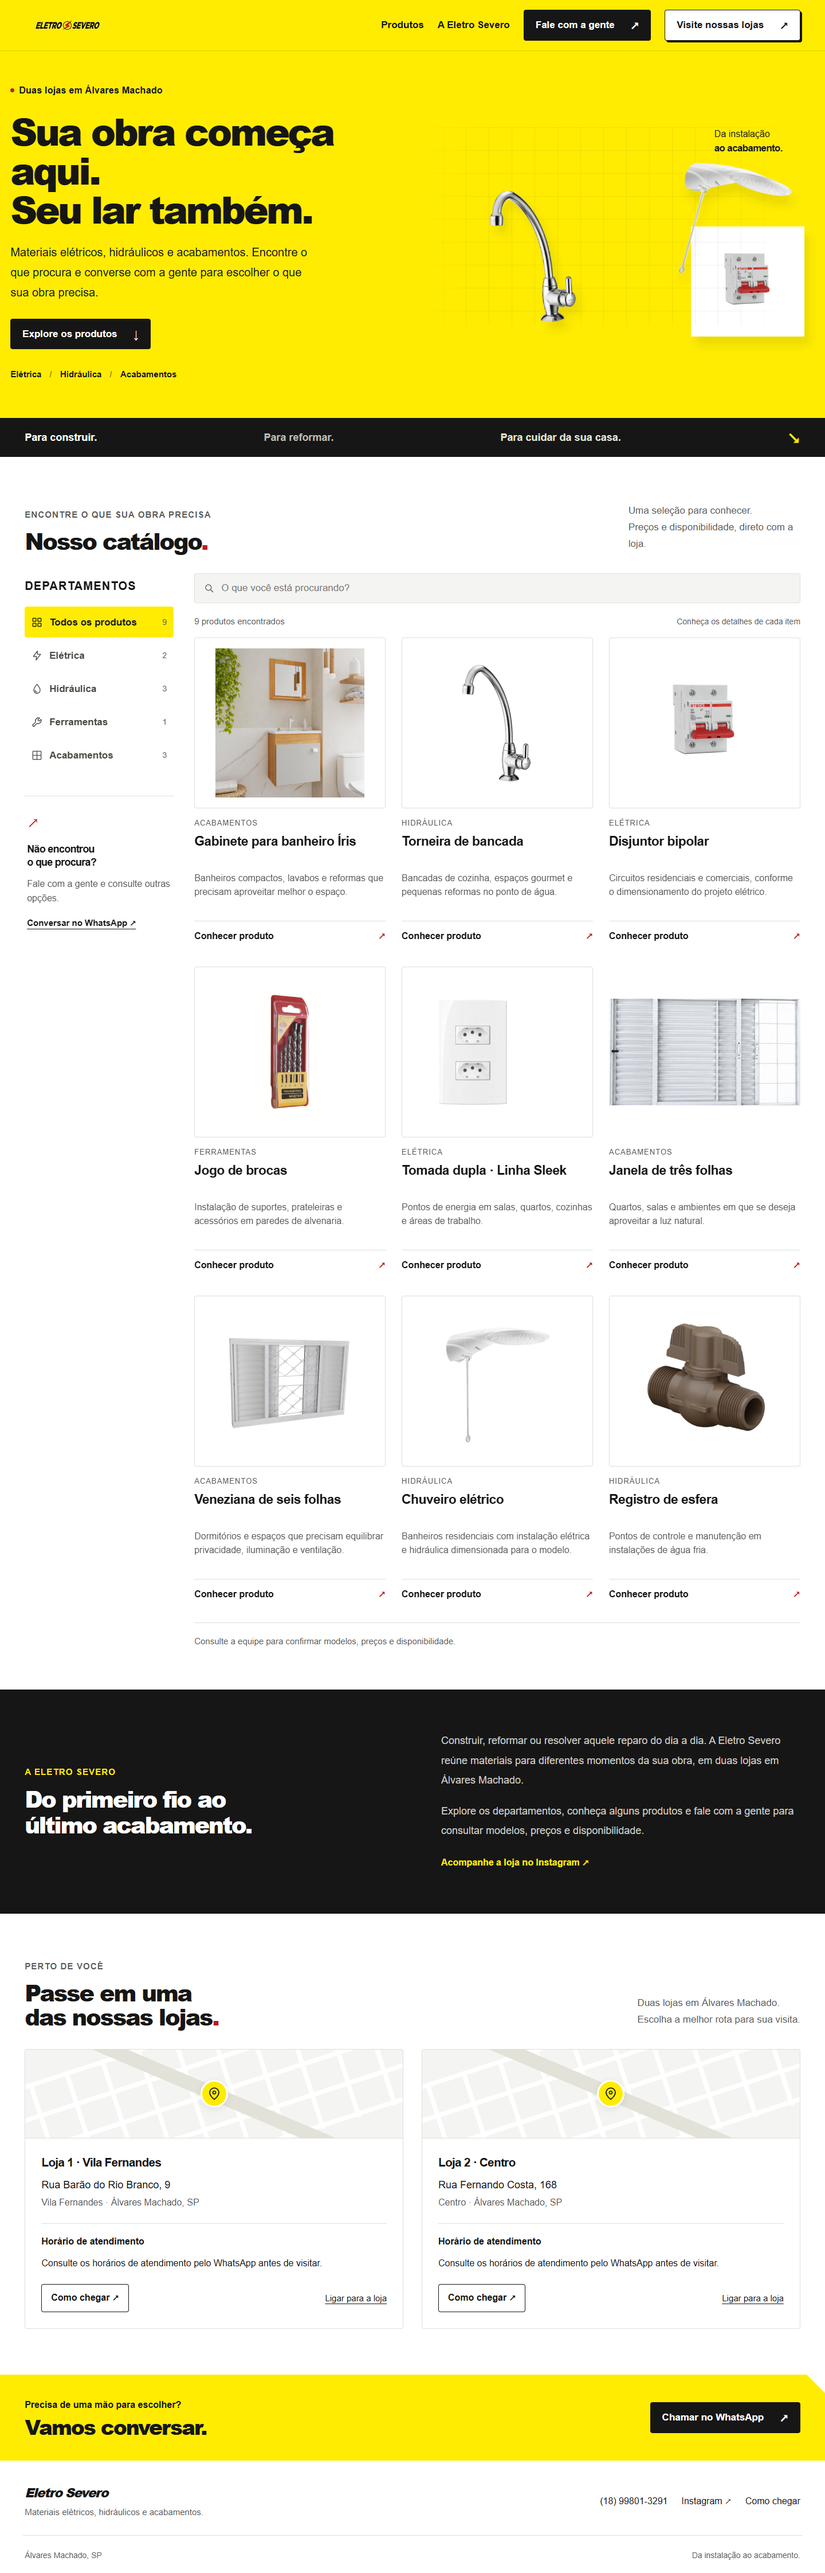
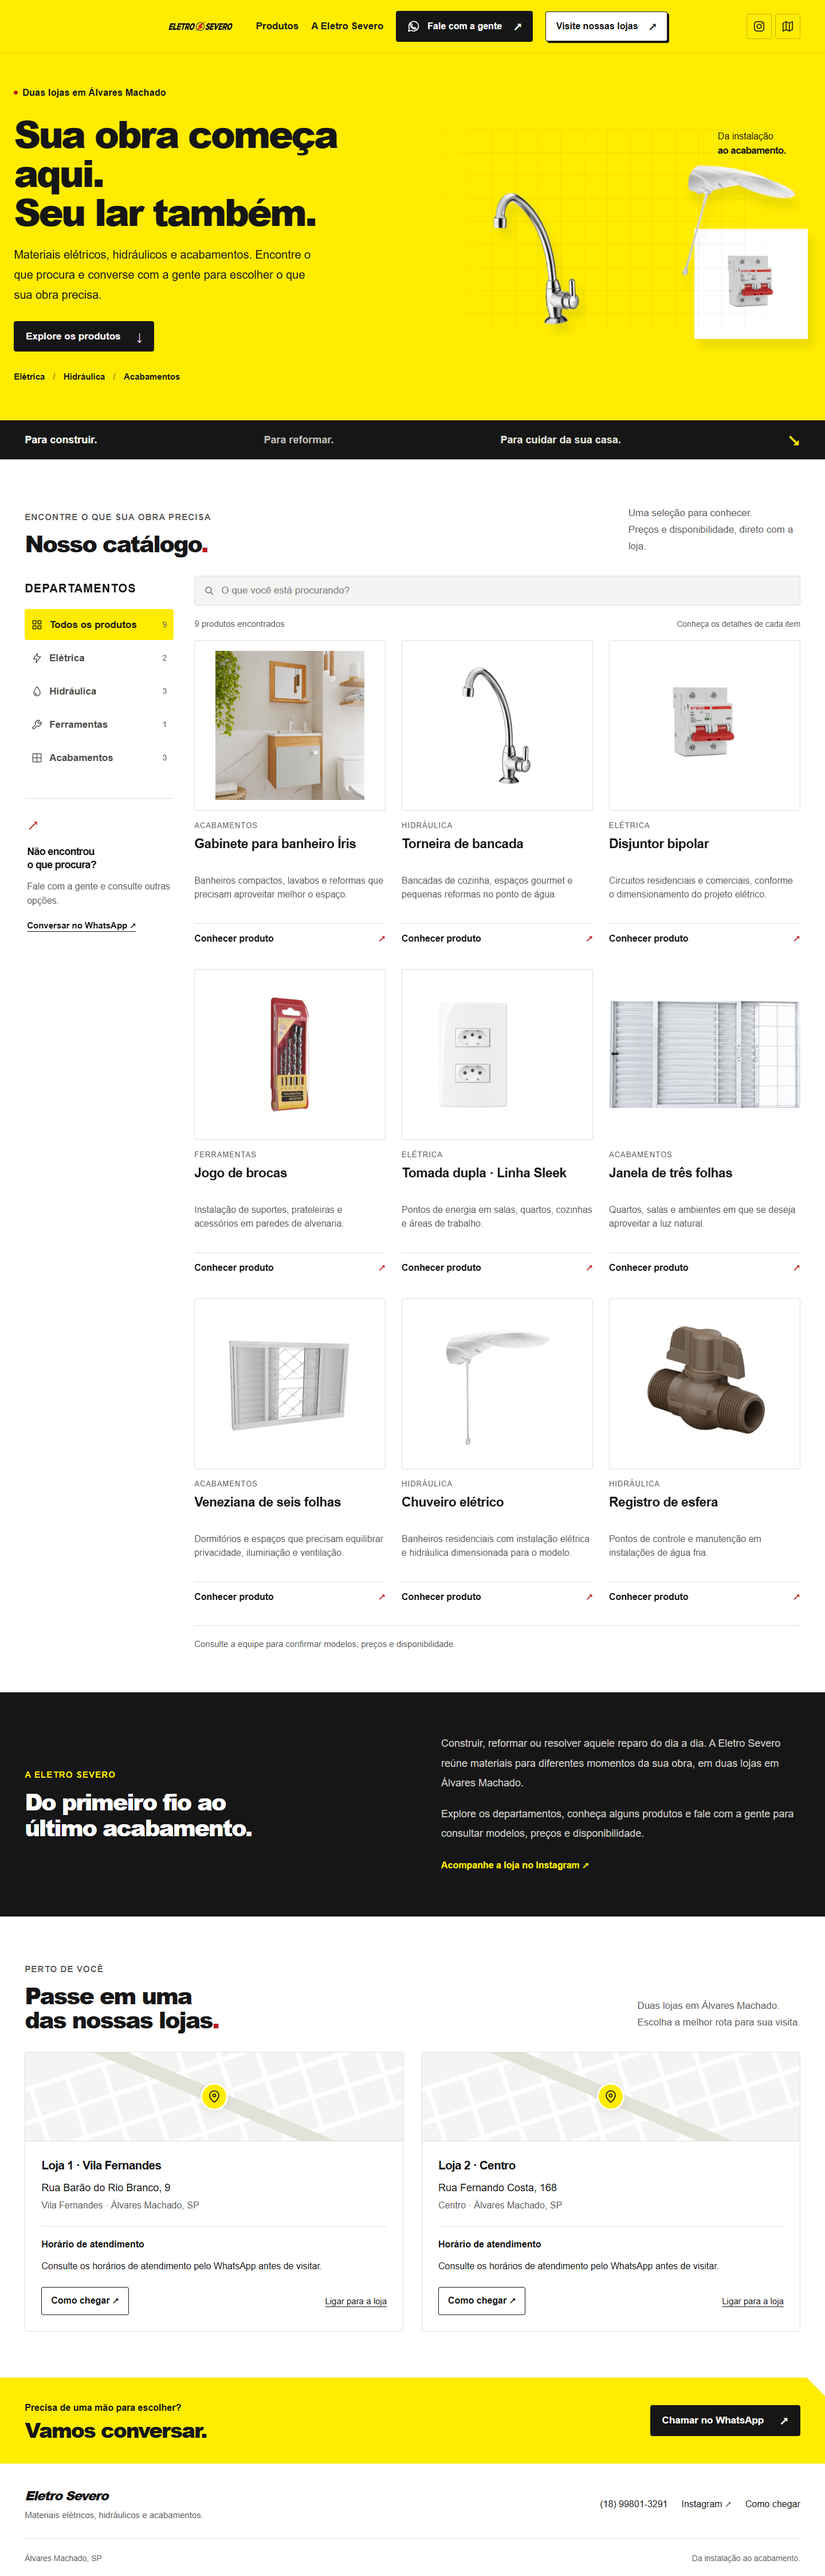
feat: centraliza cabecalho e adiciona atalhos de contato

diff --git a/eletrosevero/index.html b/eletrosevero/index.html
@@ -21,13 +21,19 @@
   <a class="skip-link" href="#produtos">Pular para o catálogo</a>
   <header class="site-header">
     <div class="container header-inner">
-      <a class="logo" href="#inicio" aria-label="Eletro Severo — início"><img src="./assets/logo-original.png" width="150" height="150" alt="Eletro Severo"></a>
-      <button class="menu-toggle" aria-expanded="false" aria-controls="main-nav">Menu <span aria-hidden="true">☰</span></button>
-      <nav id="main-nav" aria-label="Navegação principal">
-        <a href="#produtos">Produtos</a><a href="#sobre">A Eletro Severo</a>
-        <a class="button button-dark header-contact" data-whatsapp href="https://wa.me/5518998013291">Fale com a gente <span aria-hidden="true">↗</span></a>
-      </nav>
-      <a class="button header-stores" href="#lojas">Visite nossas lojas <span aria-hidden="true">↗</span></a>
+      <div class="header-main">
+        <a class="logo" href="#inicio" aria-label="Eletro Severo — início"><img src="./assets/logo-original.png" width="150" height="150" alt="Eletro Severo"></a>
+        <button class="menu-toggle" aria-expanded="false" aria-controls="main-nav" aria-label="Menu">Menu <span aria-hidden="true">☰</span></button>
+        <nav id="main-nav" aria-label="Navegação principal">
+          <a href="#produtos">Produtos</a><a href="#sobre">A Eletro Severo</a>
+          <a class="button button-dark header-contact" data-whatsapp href="https://wa.me/5518998013291"><svg viewBox="0 0 24 24" aria-hidden="true" focusable="false"><path d="M20.5 11.6a8.5 8.5 0 0 1-12.7 7.4L3 20.5l1.5-4.7a8.5 8.5 0 1 1 16-4.2Z"/><path d="m8.2 7.2 1.3 2.5-1 1.2a8.8 8.8 0 0 0 4.2 4.1l1.1-1.1 2.6 1.3c-.2 1.5-1.2 2-2.5 1.8-4-.7-7.4-4.1-8-7.4-.2-1.2.6-2.2 2.3-2.4Z"/></svg> Fale com a gente <span aria-hidden="true">↗</span></a>
+        </nav>
+        <a class="button header-stores" href="#lojas">Visite nossas lojas <span aria-hidden="true">↗</span></a>
+      </div>
+      <div class="header-social" aria-label="Redes sociais e localização">
+        <a href="https://www.instagram.com/eletrosevero/" target="_blank" rel="noopener noreferrer" aria-label="Instagram da Eletro Severo" title="Instagram da Eletro Severo"><svg viewBox="0 0 24 24" aria-hidden="true" focusable="false"><rect x="3" y="3" width="18" height="18" rx="5"/><circle cx="12" cy="12" r="4"/><circle cx="17.5" cy="6.5" r=".8" fill="currentColor" stroke="none"/></svg></a>
+        <a data-center-map href="https://www.google.com/maps/search/?api=1&amp;query=Eletro+Severo+Rua+Fernando+Costa+168+Alvares+Machado+SP" target="_blank" rel="noopener noreferrer" aria-label="Como chegar à loja do Centro" title="Loja do Centro no Google Maps"><svg viewBox="0 0 24 24" aria-hidden="true" focusable="false"><path d="m3 6 6-3 6 3 6-3v15l-6 3-6-3-6 3V6Z"/><path d="M9 3v15M15 6v15"/></svg></a>
+      </div>
     </div>
   </header>
   <main>

diff --git a/eletrosevero/styles.css b/eletrosevero/styles.css
@@ -1385,3 +1385,32 @@ dialog::backdrop { background:#161616b3; backdrop-filter:blur(3px); }
   .dialog-actions { margin-top:18px; padding-top:14px; }
   .dialog-image img { height:380px; }
 }
+
+/* Main header group is centered independently of the social links on the right. */
+.site-header .header-inner { display:grid; grid-template-columns:minmax(0,1fr) auto minmax(0,1fr); align-items:center; min-height:92px; gap:16px; }
+.header-main { grid-column:2; display:flex; align-items:center; gap:22px; }
+.site-header nav { margin:0; gap:22px; white-space:nowrap; }
+.header-contact { gap:12px; padding:14px 18px; font-size:16px; }
+.header-contact svg { width:24px; height:24px; flex:none; }
+.header-contact>span { margin-left:8px; }
+.header-stores { font-size:16px; padding:14px 18px; gap:18px; white-space:nowrap; }
+.header-social { grid-column:3; justify-self:end; display:flex; align-items:center; gap:6px; }
+.header-social a { display:grid; place-items:center; width:44px; height:44px; border-radius:4px; color:var(--ink); border:1px solid #16161640; transition:background .15s,color .15s; }
+.header-social a:hover { background:var(--ink); color:#fff; }
+.header-social svg { width:22px; height:22px; }
+@media (min-width:1101px) and (max-width:1300px) {
+  .site-header nav>a:not(.button) { display:none; }
+}
+@media (max-width:1100px) {
+  .site-header .header-inner { position:relative; grid-template-columns:minmax(0,1fr) auto auto; padding-block:12px; gap:10px; }
+  .header-main { display:contents; }
+  .site-header .logo { grid-column:1; grid-row:1; }
+  .header-social { grid-column:2; grid-row:1; }
+  .site-header .menu-toggle { display:flex; grid-column:3; grid-row:1; margin:0; align-items:center; justify-content:center; padding:0; width:44px; height:44px; font-size:0; gap:0; border:1px solid #16161655; border-radius:4px; background:none; }
+  .menu-toggle span { font-size:22px; }
+  .header-stores { grid-column:1/-1; grid-row:2; min-height:48px; justify-content:space-between; margin:0 3px 3px 0; padding:10px 16px; }
+  .site-header nav { display:none; position:absolute; top:100%; left:0; right:0; z-index:5; padding:16px 20px 24px; background:var(--yellow); box-shadow:0 8px 10px #0001; flex-direction:column; align-items:stretch; gap:4px; }
+  .site-header nav.is-open { display:flex; }
+  .site-header nav>a:not(.button) { display:block; padding:12px; }
+  .site-header nav .button { margin-top:8px; }
+}

diff --git a/eletrosevero/app.js b/eletrosevero/app.js
@@ -44,6 +44,9 @@ document.querySelectorAll('[data-whatsapp]').forEach(link => {
   link.rel = 'noopener noreferrer';
 });
 
+const centralStore = stores.find(store => store.id === 'loja2');
+document.querySelector('[data-center-map]').href = 'https://www.google.com/maps/search/?api=1&query=' + encodeURIComponent(centralStore.mapQuery);
+
 const categoryButtons = categories.map(category => {
   const button = node('button','category-button');
   button.type = 'button';
@@ -162,5 +165,5 @@ function closeMenu(){ menuButton.setAttribute('aria-expanded','false'); nav.clas
 menuButton.addEventListener('click',() => { const open=menuButton.getAttribute('aria-expanded')==='true'; menuButton.setAttribute('aria-expanded',String(!open)); nav.classList.toggle('is-open',!open); });
 nav.querySelectorAll('a').forEach(link => link.addEventListener('click',closeMenu));
 document.addEventListener('keydown',event => { if(event.key==='Escape' && menuButton.getAttribute('aria-expanded')==='true'){ closeMenu(); menuButton.focus(); } });
-matchMedia('(min-width: 701px)').addEventListener('change',event => { if(event.matches) closeMenu(); });
+matchMedia('(min-width: 1101px)').addEventListener('change',event => { if(event.matches) closeMenu(); });
 renderProducts();

diff --git a/eletrosevero/docs/VALIDATION.md b/eletrosevero/docs/VALIDATION.md
@@ -1,7 +1,7 @@
 # Validação — revisão de catálogo em 12/10/2026
 
 - 4/4 testes unitários de busca e filtro.
-- 13/13 cenários Playwright com Chrome isolado: nove produtos, duas lojas, imagens carregadas, busca sem acentos, filtro combinado, estado vazio, limpar, modal pelo teclado, Escape, retorno de foco, detalhes ampliados, fonte e largura do catálogo, filtros à esquerda, ausência de avisos de protótipo e de estoque inventado, links de rota, consulta específica por WhatsApp, telefone, menu mobile, movimento reduzido e ausência de overflow.
+- 14/14 cenários Playwright com Chrome isolado: nove produtos, duas lojas, imagens carregadas, busca sem acentos, filtro combinado, estado vazio, limpar, modal pelo teclado, Escape, retorno de foco, detalhes ampliados, fonte e largura do catálogo, filtros à esquerda, ausência de avisos de protótipo e de estoque inventado, links de rota, consulta específica por WhatsApp, telefone, menu mobile, movimento reduzido e ausência de overflow.
 - Nenhum erro de console, execução ou requisição observado.
 - Capturas em 1440 px e 390 px, incluindo modal, revisadas visualmente. Desktop com catálogo amplo e navegação lateral; mobile com produtos em uma coluna e departamentos roláveis.
 - Revisão local: conteúdo inserido com textContent; apenas ícones fixos usam HTML. Links externos com noopener. Sem nova dependência, formulário de coleta ou persistência.
@@ -20,3 +20,10 @@
 ## Limpeza de referências na interface
 
 Links de fonte e avisos de fotos de referência removidos do catálogo e do modal. Texto alternativo descreve somente o produto. Origem das imagens preservada na documentação interna. Consulta de preço/modelos e identificação das fichas fictícias permanecem. Os 13 cenários de navegador passaram novamente; captura do modal revisada.
+
+## Cabeçalho centralizado e atalhos
+
+- Grupo principal centralizado no desktop independentemente dos atalhos à direita. Ícone de WhatsApp inserido no contato, preservando a seta.
+- Instagram aponta ao perfil da empresa. Maps usa a mesma consulta da unidade do Centro (Rua Fernando Costa, 168), definida em data/content.js. Nomes acessíveis e foco visível nos links.
+- Conferidos 1440, 1280, 1100, 768 e 390 px: sem overflow e sem sobreposição; atalhos e visita às lojas continuam visíveis. Menu recolhido até 1100 px, fechamento ao retornar ao desktop.
+- 14 cenários Playwright aprovados, console sem erros e screenshots do cabeçalho desktop/mobile revisados.
